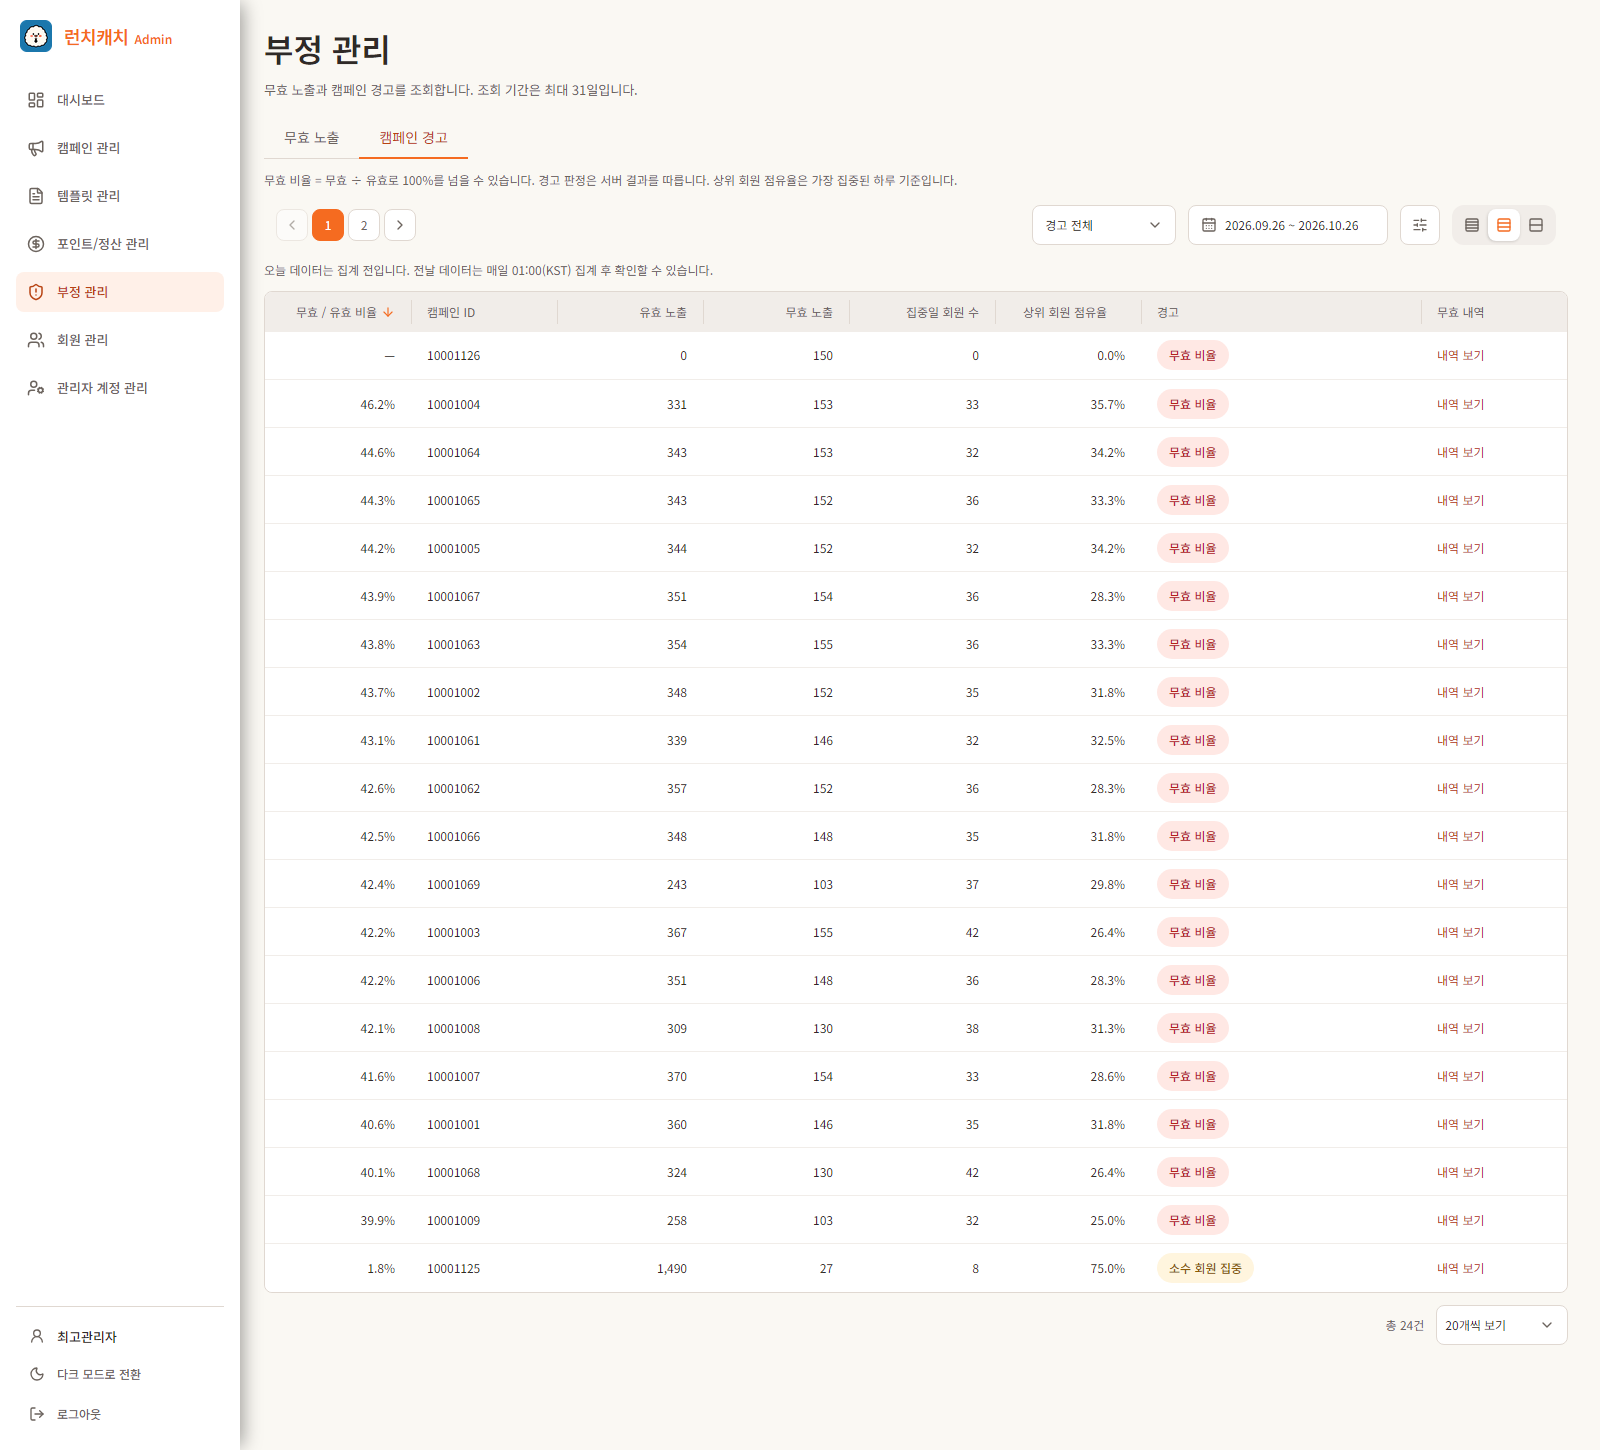
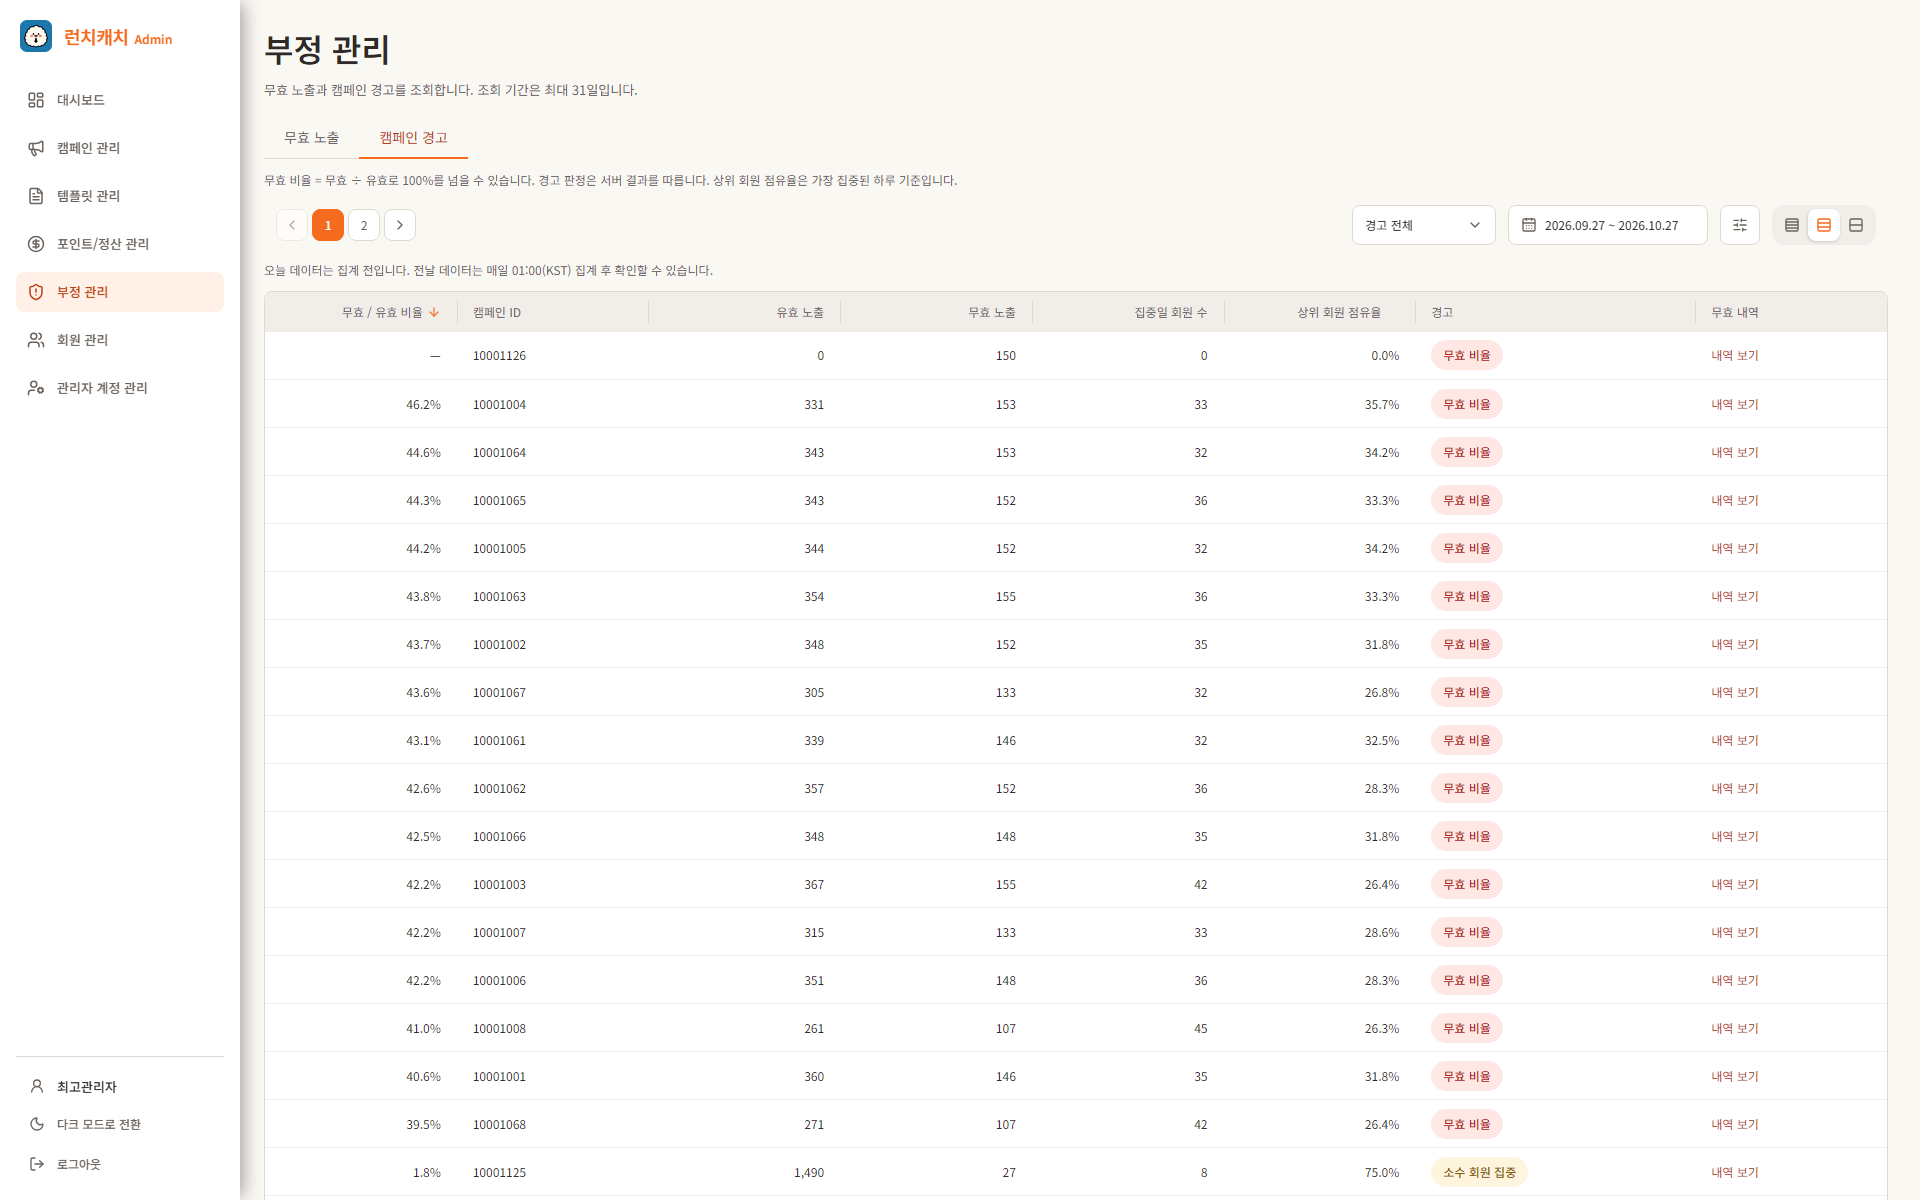
docs: 관리자 화면 캡처를 16:10 비율로 통일

diff --git a/apps/admin/README.md b/apps/admin/README.md
@@ -33,6 +33,8 @@
 
 **2026.10.26~27 개발 서버 · 라이트 모드** 기준입니다. 표시된 값은 테스트 데이터입니다.
 
+대시보드를 제외한 화면은 16:10(1920×1200) 비율로 캡처했습니다.
+
 ### 대시보드
 
 점주·사용자 현황의 최근 한달 지표와 추이입니다.
